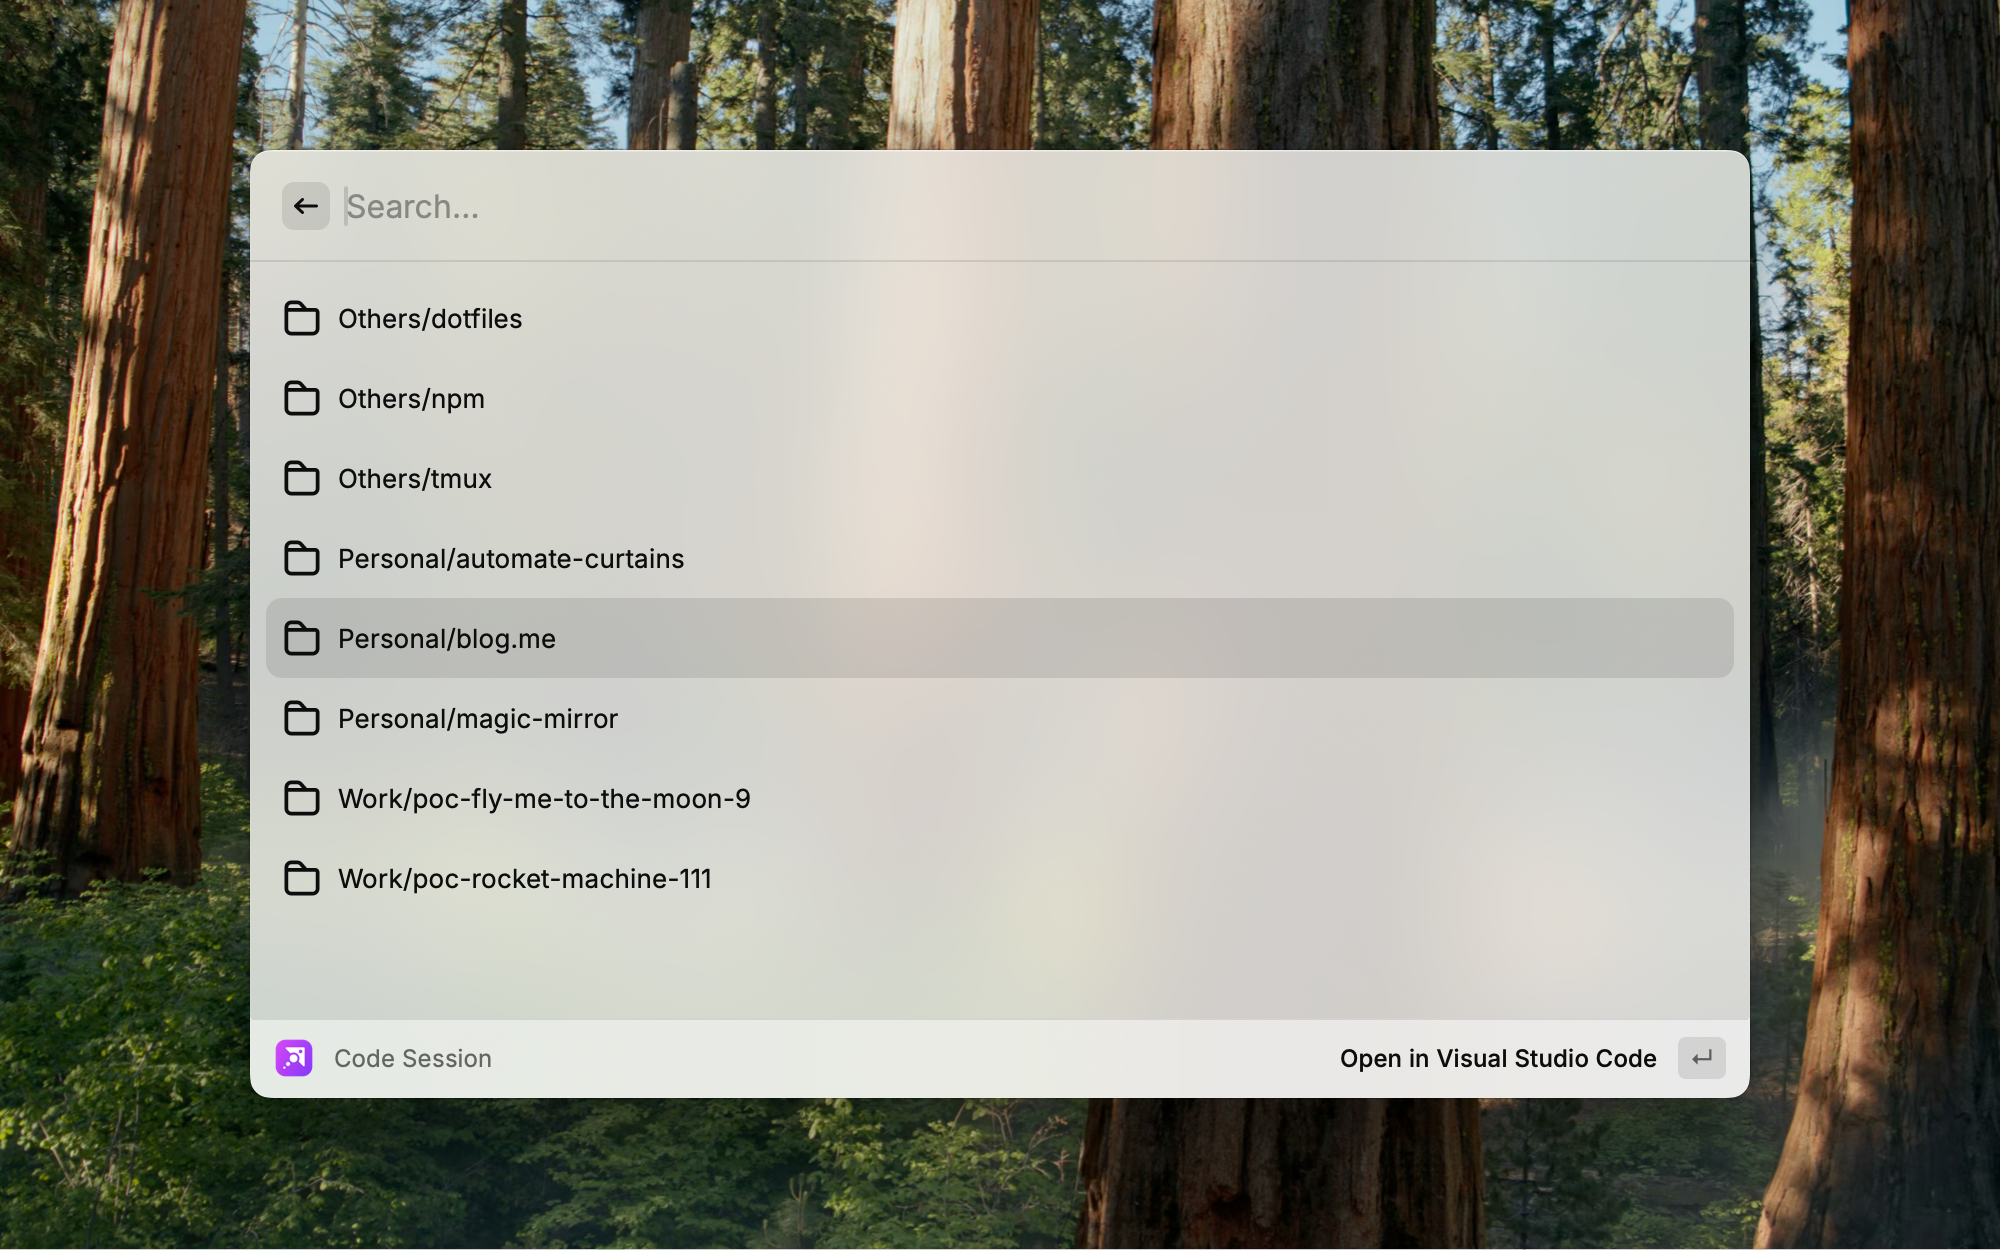
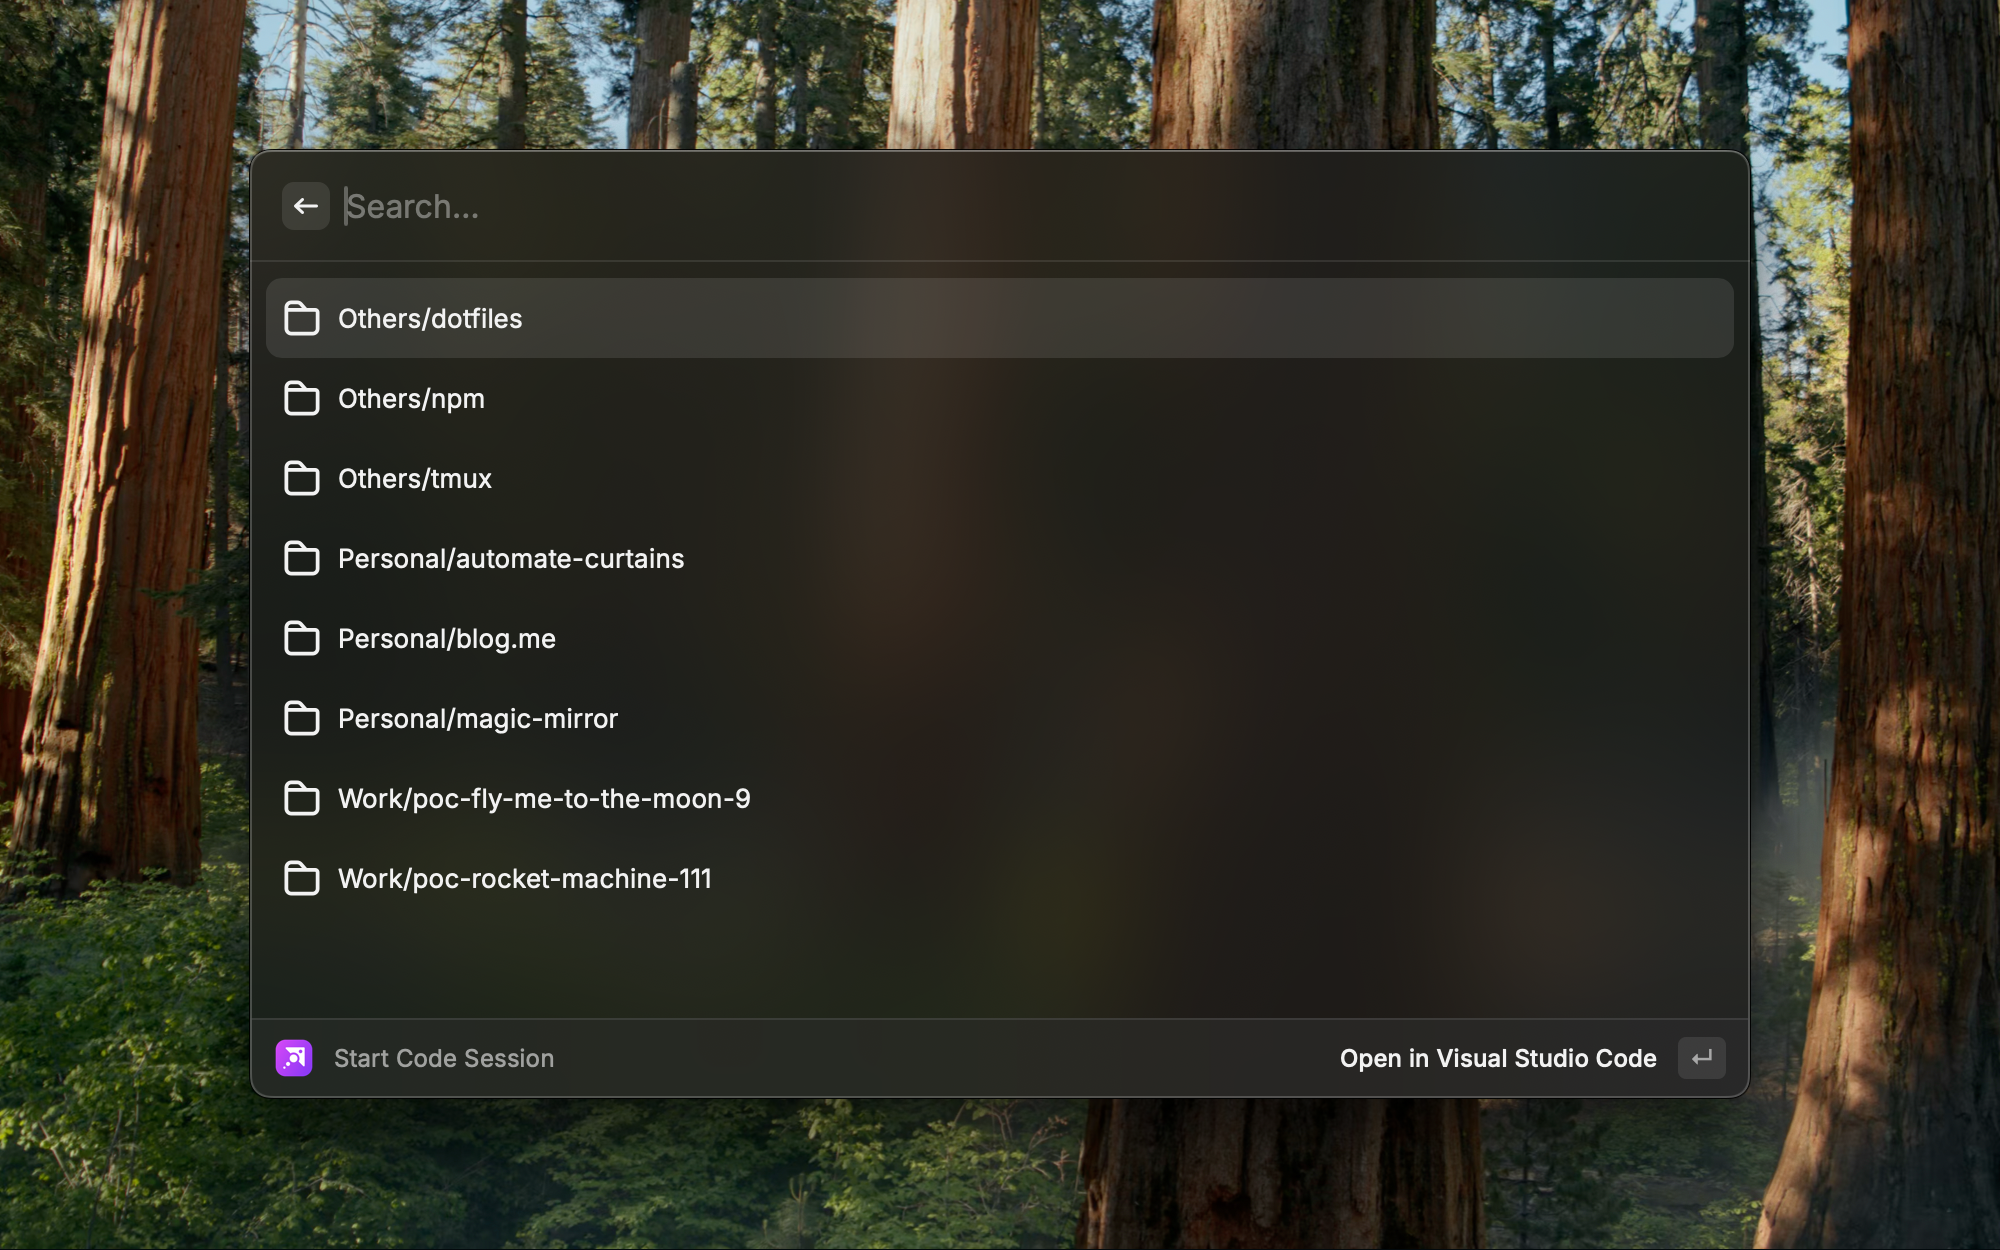
Updates screenshots and readme.

diff --git a/README.md b/README.md
@@ -2,6 +2,10 @@
 
 Quick access to existing project directories in your preferred editor.
 
+## Usage
+- Search for a project and open it in your preferred editor.
+- If the directory doesn't exist, create it and open it on the fly.
+
 ## Configure Extension
 
 Sessionizer allows you to customize:
